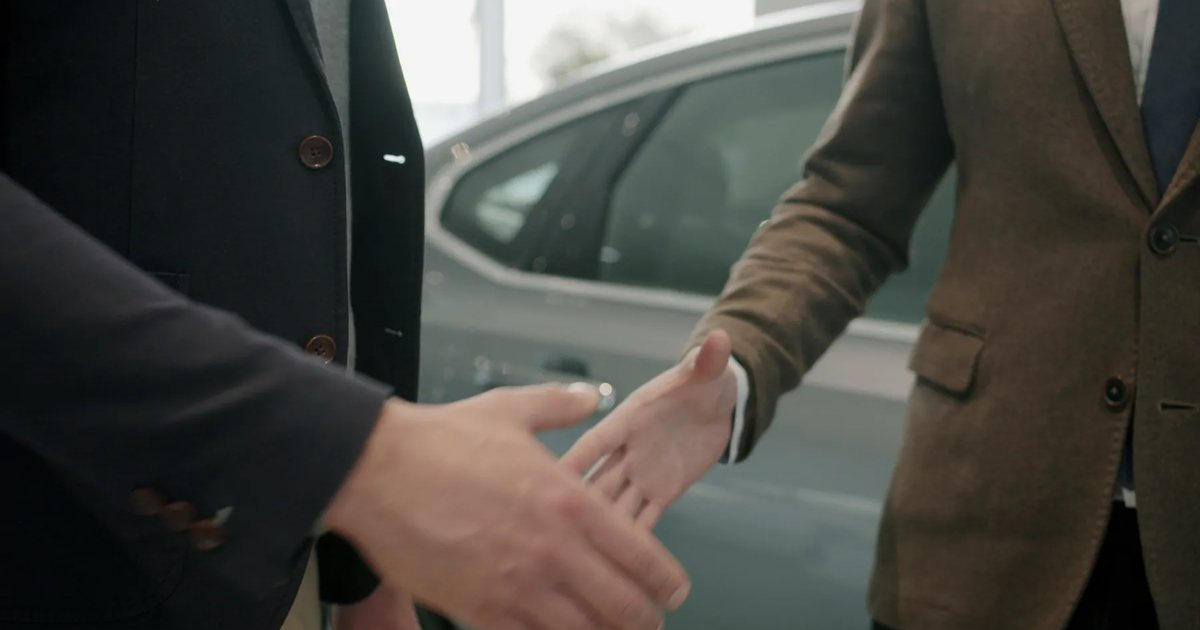
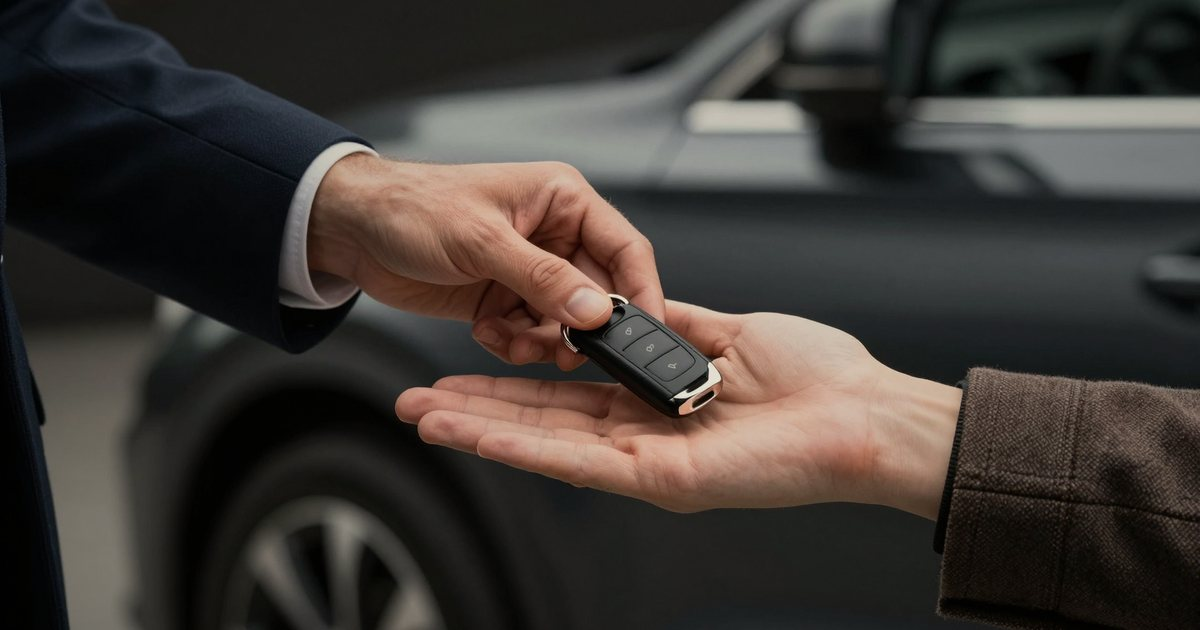
Onizleme: 720f6d9 surumu

diff --git a/blog/gaziantep-hizli-arac-satisi/index.html b/blog/gaziantep-hizli-arac-satisi/index.html
@@ -17,7 +17,7 @@
 <meta property="og:image" content="https://larisel.com/arac-onizleme/assets/img/blog/gaziantep-hizli-arac-satisi-mza-cars-og.jpg">
 <meta property="og:image:width" content="1200">
 <meta property="og:image:height" content="630">
-<meta property="og:image:alt" content="Gaziantep'te hızlı araç satışı: araç önünde anlaşmanın el sıkışması">
+<meta property="og:image:alt" content="Gaziantep'te hızlı araç satışı: satışın ardından araç anahtarının teslimi">
 <meta name="twitter:card" content="summary_large_image">
 <script type="application/ld+json">{"@context": "https://schema.org", "@type": "BlogPosting", "headline": "Gaziantep'te Aracımı Hızlı Nasıl Satarım? Güvenli Araç Satış Rehberi", "description": "Gaziantep’te aracınızı hızlı ve güvenli şekilde satın. MZA Cars ile ücretsiz ekspertiz, 48 saat geçerli ön teklif ve aynı gün ödeme imkânını keşfedin.", "image": "https://larisel.com/arac-onizleme/assets/img/blog/gaziantep-hizli-arac-satisi-mza-cars-og.jpg", "datePublished": "2026-11-23", "inLanguage": "tr-TR", "mainEntityOfPage": "https://larisel.com/arac-onizleme/blog/gaziantep-hizli-arac-satisi/", "author": {"@type": "Organization", "name": "MZA Cars"}, "publisher": {"@type": "Organization", "name": "MZA Cars"}}</script>
 <meta name="theme-color" content="#0b0c0e">
@@ -25,7 +25,7 @@
 <link rel="preconnect" href="https://fonts.googleapis.com">
 <link rel="preconnect" href="https://fonts.gstatic.com" crossorigin>
 <link rel="stylesheet" href="https://fonts.googleapis.com/css2?family=Archivo:wdth,wght@62..125,100..900&display=swap">
-<link rel="stylesheet" href="/arac-onizleme/assets/css/site.css?v=96f9b6b4">
+<link rel="stylesheet" href="/arac-onizleme/assets/css/site.css?v=5f0941cd">
 <script>document.documentElement.classList.add("js")</script>
 </head>
 <body data-page="blog/gaziantep-hizli-arac-satisi">
@@ -52,7 +52,7 @@
     <p class="post__meta"><time datetime="2026-11-23">23 Kasım 2026</time><i aria-hidden="true">·</i>5 dk okuma</p>
     <h1 class="post__title" id="post-title">Gaziantep'te Aracımı Hızlı Nasıl Satarım? Güvenli Araç Satış Rehberi</h1>
   </div>
-  <figure class="post__cover reveal"><img src="/arac-onizleme/assets/img/blog/gaziantep-hizli-arac-satisi-mza-cars-1200.webp" srcset="/arac-onizleme/assets/img/blog/gaziantep-hizli-arac-satisi-mza-cars-720.webp 720w, /arac-onizleme/assets/img/blog/gaziantep-hizli-arac-satisi-mza-cars-1200.webp 1200w, /arac-onizleme/assets/img/blog/gaziantep-hizli-arac-satisi-mza-cars-1800.webp 1800w" sizes="(min-width: 1100px) 1000px, 100vw" alt="Gaziantep'te hızlı araç satışı: araç önünde anlaşmanın el sıkışması" fetchpriority="high" decoding="async" width="1800" height="1200"></figure>
+  <figure class="post__cover reveal"><img style="--fx:52%;--fy:56%;--z:1" src="/arac-onizleme/assets/img/blog/gaziantep-hizli-arac-satisi-mza-cars-1200.webp" srcset="/arac-onizleme/assets/img/blog/gaziantep-hizli-arac-satisi-mza-cars-720.webp 720w, /arac-onizleme/assets/img/blog/gaziantep-hizli-arac-satisi-mza-cars-1200.webp 1200w, /arac-onizleme/assets/img/blog/gaziantep-hizli-arac-satisi-mza-cars-1800.webp 1800w" sizes="(min-width: 1100px) 1000px, 100vw" alt="Gaziantep'te hızlı araç satışı: satışın ardından araç anahtarının teslimi" fetchpriority="high" decoding="async" width="1800" height="1200"></figure>
   <div class="post__body">
 <p class="post__lead">İkinci el araç satışı, doğru yöntemler tercih edilmediğinde zaman alıcı ve yorucu bir sürece dönüşebilir. İlan hazırlamak, potansiyel alıcılarla görüşmek, fiyat pazarlığı yapmak ve ekspertiz işlemlerini organize etmek araç sahipleri için önemli bir zaman kaybı oluşturabilir.</p>
 <p>Özellikle <strong>Gaziantep'te aracını hızlı satmak isteyenler</strong> için doğru fiyatlandırma, güvenilir bir alıcı ve sorunsuz bir satış süreci büyük önem taşır.</p>
@@ -133,7 +133,7 @@
   </div>
   <section class="post__more" aria-labelledby="more-title">
     <p class="label" id="more-title">Diğer yazılar</p>
-    <div class="blog__grid"><article class="post-card reveal"><a class="post-card__a" href="/arac-onizleme/blog/gaziantep-arac-degerleme/"><figure class="post-card__pic"><img src="/arac-onizleme/assets/img/blog/gaziantep-arac-degerleme-mza-cars-1200.webp" srcset="/arac-onizleme/assets/img/blog/gaziantep-arac-degerleme-mza-cars-720.webp 720w, /arac-onizleme/assets/img/blog/gaziantep-arac-degerleme-mza-cars-1200.webp 1200w, /arac-onizleme/assets/img/blog/gaziantep-arac-degerleme-mza-cars-1800.webp 1800w" sizes="(min-width: 1101px) 30vw, (min-width: 700px) 46vw, 90vw" alt="Gaziantep araç değerleme: aracın kilometre ve hız göstergesi" loading="lazy" decoding="async" width="1800" height="1200"></figure><p class="post-card__meta"><time datetime="2026-11-23">23 Kasım 2026</time><i aria-hidden="true">·</i>7 dk okuma</p><h2 class="post-card__t">Gaziantep'te İkinci El Aracım Ne Kadar Eder? Araç Değerleme Rehberi</h2><p class="post-card__x">Gaziantep’te aracınızın değeri ne kadar? İkinci el araç fiyatlarını etkileyen faktörleri öğrenin, MZA Cars ile aracınıza özel ücretsiz ön teklif alın.</p><span class="post-card__go">Devamını oku <svg class="arw" viewBox="0 0 20 20" aria-hidden="true"><path d="M4 10h11M11 5.5 15.5 10 11 14.5"/></svg></span></a></article><article class="post-card reveal"><a class="post-card__a" href="/arac-onizleme/blog/gaziantep-oto-ekspertiz/"><figure class="post-card__pic"><img style="--fx:56%;--fy:52%;--z:1.28" src="/arac-onizleme/assets/img/blog/gaziantep-oto-ekspertiz-mza-cars-1200.webp" srcset="/arac-onizleme/assets/img/blog/gaziantep-oto-ekspertiz-mza-cars-720.webp 720w, /arac-onizleme/assets/img/blog/gaziantep-oto-ekspertiz-mza-cars-1200.webp 1200w, /arac-onizleme/assets/img/blog/gaziantep-oto-ekspertiz-mza-cars-1800.webp 1800w" sizes="(min-width: 1101px) 30vw, (min-width: 700px) 46vw, 90vw" alt="Gaziantep oto ekspertiz: uzman, atölyede aracın motor bölmesini inceliyor" loading="lazy" decoding="async" width="1800" height="1200"></figure><p class="post-card__meta"><time datetime="2026-11-23">23 Kasım 2026</time><i aria-hidden="true">·</i>6 dk okuma</p><h2 class="post-card__t">Gaziantep'te Araç Satışı Öncesi Ekspertiz Neden Önemli?</h2><p class="post-card__x">Gaziantep’te araç satışı öncesi ekspertiz neden önemli? MZA Cars ile ücretsiz araç ekspertizi, doğru fiyatlandırma ve güvenli satış sürecini keşfedin.</p><span class="post-card__go">Devamını oku <svg class="arw" viewBox="0 0 20 20" aria-hidden="true"><path d="M4 10h11M11 5.5 15.5 10 11 14.5"/></svg></span></a></article></div>
+    <div class="blog__grid"><article class="post-card reveal"><a class="post-card__a" href="/arac-onizleme/blog/gaziantep-arac-degerleme/"><figure class="post-card__pic"><img style="--fx:41%;--fy:52%;--z:1.08" src="/arac-onizleme/assets/img/blog/gaziantep-arac-degerleme-mza-cars-1200.webp" srcset="/arac-onizleme/assets/img/blog/gaziantep-arac-degerleme-mza-cars-720.webp 720w, /arac-onizleme/assets/img/blog/gaziantep-arac-degerleme-mza-cars-1200.webp 1200w, /arac-onizleme/assets/img/blog/gaziantep-arac-degerleme-mza-cars-1800.webp 1800w" sizes="(min-width: 1101px) 30vw, (min-width: 700px) 46vw, 90vw" alt="Gaziantep araç değerleme: uzman, boya ölçüm cihazıyla aracın kaportasını ölçüyor" loading="lazy" decoding="async" width="1800" height="1200"></figure><p class="post-card__meta"><time datetime="2026-11-23">23 Kasım 2026</time><i aria-hidden="true">·</i>7 dk okuma</p><h2 class="post-card__t">Gaziantep'te İkinci El Aracım Ne Kadar Eder? Araç Değerleme Rehberi</h2><p class="post-card__x">Gaziantep’te aracınızın değeri ne kadar? İkinci el araç fiyatlarını etkileyen faktörleri öğrenin, MZA Cars ile aracınıza özel ücretsiz ön teklif alın.</p><span class="post-card__go">Devamını oku <svg class="arw" viewBox="0 0 20 20" aria-hidden="true"><path d="M4 10h11M11 5.5 15.5 10 11 14.5"/></svg></span></a></article><article class="post-card reveal"><a class="post-card__a" href="/arac-onizleme/blog/gaziantep-oto-ekspertiz/"><figure class="post-card__pic"><img style="--fx:56%;--fy:52%;--z:1.28" src="/arac-onizleme/assets/img/blog/gaziantep-oto-ekspertiz-mza-cars-1200.webp" srcset="/arac-onizleme/assets/img/blog/gaziantep-oto-ekspertiz-mza-cars-720.webp 720w, /arac-onizleme/assets/img/blog/gaziantep-oto-ekspertiz-mza-cars-1200.webp 1200w, /arac-onizleme/assets/img/blog/gaziantep-oto-ekspertiz-mza-cars-1800.webp 1800w" sizes="(min-width: 1101px) 30vw, (min-width: 700px) 46vw, 90vw" alt="Gaziantep oto ekspertiz: uzman, atölyede aracın motor bölmesini inceliyor" loading="lazy" decoding="async" width="1800" height="1200"></figure><p class="post-card__meta"><time datetime="2026-11-23">23 Kasım 2026</time><i aria-hidden="true">·</i>6 dk okuma</p><h2 class="post-card__t">Gaziantep'te Araç Satışı Öncesi Ekspertiz Neden Önemli?</h2><p class="post-card__x">Gaziantep’te araç satışı öncesi ekspertiz neden önemli? MZA Cars ile ücretsiz araç ekspertizi, doğru fiyatlandırma ve güvenli satış sürecini keşfedin.</p><span class="post-card__go">Devamını oku <svg class="arw" viewBox="0 0 20 20" aria-hidden="true"><path d="M4 10h11M11 5.5 15.5 10 11 14.5"/></svg></span></a></article></div>
   </section>
 </article>
 

diff --git a/blog/gaziantep-arac-degerleme/index.html b/blog/gaziantep-arac-degerleme/index.html
@@ -17,7 +17,7 @@
 <meta property="og:image" content="https://larisel.com/arac-onizleme/assets/img/blog/gaziantep-arac-degerleme-mza-cars-og.jpg">
 <meta property="og:image:width" content="1200">
 <meta property="og:image:height" content="630">
-<meta property="og:image:alt" content="Gaziantep araç değerleme: aracın kilometre ve hız göstergesi">
+<meta property="og:image:alt" content="Gaziantep araç değerleme: uzman, boya ölçüm cihazıyla aracın kaportasını ölçüyor">
 <meta name="twitter:card" content="summary_large_image">
 <script type="application/ld+json">{"@context": "https://schema.org", "@type": "BlogPosting", "headline": "Gaziantep'te İkinci El Aracım Ne Kadar Eder? Araç Değerleme Rehberi", "description": "Gaziantep’te aracınızın değeri ne kadar? İkinci el araç fiyatlarını etkileyen faktörleri öğrenin, MZA Cars ile aracınıza özel ücretsiz ön teklif alın.", "image": "https://larisel.com/arac-onizleme/assets/img/blog/gaziantep-arac-degerleme-mza-cars-og.jpg", "datePublished": "2026-11-23", "inLanguage": "tr-TR", "mainEntityOfPage": "https://larisel.com/arac-onizleme/blog/gaziantep-arac-degerleme/", "author": {"@type": "Organization", "name": "MZA Cars"}, "publisher": {"@type": "Organization", "name": "MZA Cars"}}</script>
 <meta name="theme-color" content="#0b0c0e">
@@ -25,7 +25,7 @@
 <link rel="preconnect" href="https://fonts.googleapis.com">
 <link rel="preconnect" href="https://fonts.gstatic.com" crossorigin>
 <link rel="stylesheet" href="https://fonts.googleapis.com/css2?family=Archivo:wdth,wght@62..125,100..900&display=swap">
-<link rel="stylesheet" href="/arac-onizleme/assets/css/site.css?v=96f9b6b4">
+<link rel="stylesheet" href="/arac-onizleme/assets/css/site.css?v=5f0941cd">
 <script>document.documentElement.classList.add("js")</script>
 </head>
 <body data-page="blog/gaziantep-arac-degerleme">
@@ -52,7 +52,7 @@
     <p class="post__meta"><time datetime="2026-11-23">23 Kasım 2026</time><i aria-hidden="true">·</i>7 dk okuma</p>
     <h1 class="post__title" id="post-title">Gaziantep'te İkinci El Aracım Ne Kadar Eder? Araç Değerleme Rehberi</h1>
   </div>
-  <figure class="post__cover reveal"><img src="/arac-onizleme/assets/img/blog/gaziantep-arac-degerleme-mza-cars-1200.webp" srcset="/arac-onizleme/assets/img/blog/gaziantep-arac-degerleme-mza-cars-720.webp 720w, /arac-onizleme/assets/img/blog/gaziantep-arac-degerleme-mza-cars-1200.webp 1200w, /arac-onizleme/assets/img/blog/gaziantep-arac-degerleme-mza-cars-1800.webp 1800w" sizes="(min-width: 1100px) 1000px, 100vw" alt="Gaziantep araç değerleme: aracın kilometre ve hız göstergesi" fetchpriority="high" decoding="async" width="1800" height="1200"></figure>
+  <figure class="post__cover reveal"><img style="--fx:41%;--fy:52%;--z:1.08" src="/arac-onizleme/assets/img/blog/gaziantep-arac-degerleme-mza-cars-1200.webp" srcset="/arac-onizleme/assets/img/blog/gaziantep-arac-degerleme-mza-cars-720.webp 720w, /arac-onizleme/assets/img/blog/gaziantep-arac-degerleme-mza-cars-1200.webp 1200w, /arac-onizleme/assets/img/blog/gaziantep-arac-degerleme-mza-cars-1800.webp 1800w" sizes="(min-width: 1100px) 1000px, 100vw" alt="Gaziantep araç değerleme: uzman, boya ölçüm cihazıyla aracın kaportasını ölçüyor" fetchpriority="high" decoding="async" width="1800" height="1200"></figure>
   <div class="post__body">
 <p class="post__lead">İkinci el aracını satmayı düşünen herkesin aklına ilk gelen sorulardan biri, <strong>“Aracım ne kadar eder?”</strong> sorusudur. Ancak bir otomobilin gerçek piyasa değerini belirlemek, yalnızca marka, model veya kilometre bilgilerine bakmakla mümkün değildir.</p>
 <p>Aracın üretim yılı, hasar geçmişi, boyalı ve değişen parçaları, bakım durumu ve güncel piyasa koşulları satış fiyatını doğrudan etkileyen unsurlar arasındadır.</p>
@@ -160,7 +160,7 @@
   </div>
   <section class="post__more" aria-labelledby="more-title">
     <p class="label" id="more-title">Diğer yazılar</p>
-    <div class="blog__grid"><article class="post-card reveal"><a class="post-card__a" href="/arac-onizleme/blog/gaziantep-oto-ekspertiz/"><figure class="post-card__pic"><img style="--fx:56%;--fy:52%;--z:1.28" src="/arac-onizleme/assets/img/blog/gaziantep-oto-ekspertiz-mza-cars-1200.webp" srcset="/arac-onizleme/assets/img/blog/gaziantep-oto-ekspertiz-mza-cars-720.webp 720w, /arac-onizleme/assets/img/blog/gaziantep-oto-ekspertiz-mza-cars-1200.webp 1200w, /arac-onizleme/assets/img/blog/gaziantep-oto-ekspertiz-mza-cars-1800.webp 1800w" sizes="(min-width: 1101px) 30vw, (min-width: 700px) 46vw, 90vw" alt="Gaziantep oto ekspertiz: uzman, atölyede aracın motor bölmesini inceliyor" loading="lazy" decoding="async" width="1800" height="1200"></figure><p class="post-card__meta"><time datetime="2026-11-23">23 Kasım 2026</time><i aria-hidden="true">·</i>6 dk okuma</p><h2 class="post-card__t">Gaziantep'te Araç Satışı Öncesi Ekspertiz Neden Önemli?</h2><p class="post-card__x">Gaziantep’te araç satışı öncesi ekspertiz neden önemli? MZA Cars ile ücretsiz araç ekspertizi, doğru fiyatlandırma ve güvenli satış sürecini keşfedin.</p><span class="post-card__go">Devamını oku <svg class="arw" viewBox="0 0 20 20" aria-hidden="true"><path d="M4 10h11M11 5.5 15.5 10 11 14.5"/></svg></span></a></article><article class="post-card reveal"><a class="post-card__a" href="/arac-onizleme/blog/gaziantep-hizli-arac-satisi/"><figure class="post-card__pic"><img src="/arac-onizleme/assets/img/blog/gaziantep-hizli-arac-satisi-mza-cars-1200.webp" srcset="/arac-onizleme/assets/img/blog/gaziantep-hizli-arac-satisi-mza-cars-720.webp 720w, /arac-onizleme/assets/img/blog/gaziantep-hizli-arac-satisi-mza-cars-1200.webp 1200w, /arac-onizleme/assets/img/blog/gaziantep-hizli-arac-satisi-mza-cars-1800.webp 1800w" sizes="(min-width: 1101px) 30vw, (min-width: 700px) 46vw, 90vw" alt="Gaziantep'te hızlı araç satışı: araç önünde anlaşmanın el sıkışması" loading="lazy" decoding="async" width="1800" height="1200"></figure><p class="post-card__meta"><time datetime="2026-11-23">23 Kasım 2026</time><i aria-hidden="true">·</i>5 dk okuma</p><h2 class="post-card__t">Gaziantep'te Aracımı Hızlı Nasıl Satarım? Güvenli Araç Satış Rehberi</h2><p class="post-card__x">Gaziantep’te aracınızı hızlı ve güvenli şekilde satın. MZA Cars ile ücretsiz ekspertiz, 48 saat geçerli ön teklif ve aynı gün ödeme imkânını keşfedin.</p><span class="post-card__go">Devamını oku <svg class="arw" viewBox="0 0 20 20" aria-hidden="true"><path d="M4 10h11M11 5.5 15.5 10 11 14.5"/></svg></span></a></article></div>
+    <div class="blog__grid"><article class="post-card reveal"><a class="post-card__a" href="/arac-onizleme/blog/gaziantep-oto-ekspertiz/"><figure class="post-card__pic"><img style="--fx:56%;--fy:52%;--z:1.28" src="/arac-onizleme/assets/img/blog/gaziantep-oto-ekspertiz-mza-cars-1200.webp" srcset="/arac-onizleme/assets/img/blog/gaziantep-oto-ekspertiz-mza-cars-720.webp 720w, /arac-onizleme/assets/img/blog/gaziantep-oto-ekspertiz-mza-cars-1200.webp 1200w, /arac-onizleme/assets/img/blog/gaziantep-oto-ekspertiz-mza-cars-1800.webp 1800w" sizes="(min-width: 1101px) 30vw, (min-width: 700px) 46vw, 90vw" alt="Gaziantep oto ekspertiz: uzman, atölyede aracın motor bölmesini inceliyor" loading="lazy" decoding="async" width="1800" height="1200"></figure><p class="post-card__meta"><time datetime="2026-11-23">23 Kasım 2026</time><i aria-hidden="true">·</i>6 dk okuma</p><h2 class="post-card__t">Gaziantep'te Araç Satışı Öncesi Ekspertiz Neden Önemli?</h2><p class="post-card__x">Gaziantep’te araç satışı öncesi ekspertiz neden önemli? MZA Cars ile ücretsiz araç ekspertizi, doğru fiyatlandırma ve güvenli satış sürecini keşfedin.</p><span class="post-card__go">Devamını oku <svg class="arw" viewBox="0 0 20 20" aria-hidden="true"><path d="M4 10h11M11 5.5 15.5 10 11 14.5"/></svg></span></a></article><article class="post-card reveal"><a class="post-card__a" href="/arac-onizleme/blog/gaziantep-hizli-arac-satisi/"><figure class="post-card__pic"><img style="--fx:52%;--fy:56%;--z:1" src="/arac-onizleme/assets/img/blog/gaziantep-hizli-arac-satisi-mza-cars-1200.webp" srcset="/arac-onizleme/assets/img/blog/gaziantep-hizli-arac-satisi-mza-cars-720.webp 720w, /arac-onizleme/assets/img/blog/gaziantep-hizli-arac-satisi-mza-cars-1200.webp 1200w, /arac-onizleme/assets/img/blog/gaziantep-hizli-arac-satisi-mza-cars-1800.webp 1800w" sizes="(min-width: 1101px) 30vw, (min-width: 700px) 46vw, 90vw" alt="Gaziantep'te hızlı araç satışı: satışın ardından araç anahtarının teslimi" loading="lazy" decoding="async" width="1800" height="1200"></figure><p class="post-card__meta"><time datetime="2026-11-23">23 Kasım 2026</time><i aria-hidden="true">·</i>5 dk okuma</p><h2 class="post-card__t">Gaziantep'te Aracımı Hızlı Nasıl Satarım? Güvenli Araç Satış Rehberi</h2><p class="post-card__x">Gaziantep’te aracınızı hızlı ve güvenli şekilde satın. MZA Cars ile ücretsiz ekspertiz, 48 saat geçerli ön teklif ve aynı gün ödeme imkânını keşfedin.</p><span class="post-card__go">Devamını oku <svg class="arw" viewBox="0 0 20 20" aria-hidden="true"><path d="M4 10h11M11 5.5 15.5 10 11 14.5"/></svg></span></a></article></div>
   </section>
 </article>
 

diff --git a/blog/index.html b/blog/index.html
@@ -23,7 +23,7 @@
 <link rel="preconnect" href="https://fonts.googleapis.com">
 <link rel="preconnect" href="https://fonts.gstatic.com" crossorigin>
 <link rel="stylesheet" href="https://fonts.googleapis.com/css2?family=Archivo:wdth,wght@62..125,100..900&display=swap">
-<link rel="stylesheet" href="/arac-onizleme/assets/css/site.css?v=96f9b6b4">
+<link rel="stylesheet" href="/arac-onizleme/assets/css/site.css?v=5f0941cd">
 <script>document.documentElement.classList.add("js")</script>
 </head>
 <body data-page="blog">
@@ -50,7 +50,7 @@
     <h1 class="sec__title" id="blog-title">MZA <em>Blog</em></h1>
   </div>
   <div class="blog__grid">
-    <article class="post-card reveal"><a class="post-card__a" href="/arac-onizleme/blog/gaziantep-arac-degerleme/"><figure class="post-card__pic"><img src="/arac-onizleme/assets/img/blog/gaziantep-arac-degerleme-mza-cars-1200.webp" srcset="/arac-onizleme/assets/img/blog/gaziantep-arac-degerleme-mza-cars-720.webp 720w, /arac-onizleme/assets/img/blog/gaziantep-arac-degerleme-mza-cars-1200.webp 1200w, /arac-onizleme/assets/img/blog/gaziantep-arac-degerleme-mza-cars-1800.webp 1800w" sizes="(min-width: 1101px) 30vw, (min-width: 700px) 46vw, 90vw" alt="Gaziantep araç değerleme: aracın kilometre ve hız göstergesi" loading="lazy" decoding="async" width="1800" height="1200"></figure><p class="post-card__meta"><time datetime="2026-11-23">23 Kasım 2026</time><i aria-hidden="true">·</i>7 dk okuma</p><h2 class="post-card__t">Gaziantep'te İkinci El Aracım Ne Kadar Eder? Araç Değerleme Rehberi</h2><p class="post-card__x">Gaziantep’te aracınızın değeri ne kadar? İkinci el araç fiyatlarını etkileyen faktörleri öğrenin, MZA Cars ile aracınıza özel ücretsiz ön teklif alın.</p><span class="post-card__go">Devamını oku <svg class="arw" viewBox="0 0 20 20" aria-hidden="true"><path d="M4 10h11M11 5.5 15.5 10 11 14.5"/></svg></span></a></article><article class="post-card reveal"><a class="post-card__a" href="/arac-onizleme/blog/gaziantep-oto-ekspertiz/"><figure class="post-card__pic"><img style="--fx:56%;--fy:52%;--z:1.28" src="/arac-onizleme/assets/img/blog/gaziantep-oto-ekspertiz-mza-cars-1200.webp" srcset="/arac-onizleme/assets/img/blog/gaziantep-oto-ekspertiz-mza-cars-720.webp 720w, /arac-onizleme/assets/img/blog/gaziantep-oto-ekspertiz-mza-cars-1200.webp 1200w, /arac-onizleme/assets/img/blog/gaziantep-oto-ekspertiz-mza-cars-1800.webp 1800w" sizes="(min-width: 1101px) 30vw, (min-width: 700px) 46vw, 90vw" alt="Gaziantep oto ekspertiz: uzman, atölyede aracın motor bölmesini inceliyor" loading="lazy" decoding="async" width="1800" height="1200"></figure><p class="post-card__meta"><time datetime="2026-11-23">23 Kasım 2026</time><i aria-hidden="true">·</i>6 dk okuma</p><h2 class="post-card__t">Gaziantep'te Araç Satışı Öncesi Ekspertiz Neden Önemli?</h2><p class="post-card__x">Gaziantep’te araç satışı öncesi ekspertiz neden önemli? MZA Cars ile ücretsiz araç ekspertizi, doğru fiyatlandırma ve güvenli satış sürecini keşfedin.</p><span class="post-card__go">Devamını oku <svg class="arw" viewBox="0 0 20 20" aria-hidden="true"><path d="M4 10h11M11 5.5 15.5 10 11 14.5"/></svg></span></a></article><article class="post-card reveal"><a class="post-card__a" href="/arac-onizleme/blog/gaziantep-hizli-arac-satisi/"><figure class="post-card__pic"><img src="/arac-onizleme/assets/img/blog/gaziantep-hizli-arac-satisi-mza-cars-1200.webp" srcset="/arac-onizleme/assets/img/blog/gaziantep-hizli-arac-satisi-mza-cars-720.webp 720w, /arac-onizleme/assets/img/blog/gaziantep-hizli-arac-satisi-mza-cars-1200.webp 1200w, /arac-onizleme/assets/img/blog/gaziantep-hizli-arac-satisi-mza-cars-1800.webp 1800w" sizes="(min-width: 1101px) 30vw, (min-width: 700px) 46vw, 90vw" alt="Gaziantep'te hızlı araç satışı: araç önünde anlaşmanın el sıkışması" loading="lazy" decoding="async" width="1800" height="1200"></figure><p class="post-card__meta"><time datetime="2026-11-23">23 Kasım 2026</time><i aria-hidden="true">·</i>5 dk okuma</p><h2 class="post-card__t">Gaziantep'te Aracımı Hızlı Nasıl Satarım? Güvenli Araç Satış Rehberi</h2><p class="post-card__x">Gaziantep’te aracınızı hızlı ve güvenli şekilde satın. MZA Cars ile ücretsiz ekspertiz, 48 saat geçerli ön teklif ve aynı gün ödeme imkânını keşfedin.</p><span class="post-card__go">Devamını oku <svg class="arw" viewBox="0 0 20 20" aria-hidden="true"><path d="M4 10h11M11 5.5 15.5 10 11 14.5"/></svg></span></a></article>
+    <article class="post-card reveal"><a class="post-card__a" href="/arac-onizleme/blog/gaziantep-arac-degerleme/"><figure class="post-card__pic"><img style="--fx:41%;--fy:52%;--z:1.08" src="/arac-onizleme/assets/img/blog/gaziantep-arac-degerleme-mza-cars-1200.webp" srcset="/arac-onizleme/assets/img/blog/gaziantep-arac-degerleme-mza-cars-720.webp 720w, /arac-onizleme/assets/img/blog/gaziantep-arac-degerleme-mza-cars-1200.webp 1200w, /arac-onizleme/assets/img/blog/gaziantep-arac-degerleme-mza-cars-1800.webp 1800w" sizes="(min-width: 1101px) 30vw, (min-width: 700px) 46vw, 90vw" alt="Gaziantep araç değerleme: uzman, boya ölçüm cihazıyla aracın kaportasını ölçüyor" loading="lazy" decoding="async" width="1800" height="1200"></figure><p class="post-card__meta"><time datetime="2026-11-23">23 Kasım 2026</time><i aria-hidden="true">·</i>7 dk okuma</p><h2 class="post-card__t">Gaziantep'te İkinci El Aracım Ne Kadar Eder? Araç Değerleme Rehberi</h2><p class="post-card__x">Gaziantep’te aracınızın değeri ne kadar? İkinci el araç fiyatlarını etkileyen faktörleri öğrenin, MZA Cars ile aracınıza özel ücretsiz ön teklif alın.</p><span class="post-card__go">Devamını oku <svg class="arw" viewBox="0 0 20 20" aria-hidden="true"><path d="M4 10h11M11 5.5 15.5 10 11 14.5"/></svg></span></a></article><article class="post-card reveal"><a class="post-card__a" href="/arac-onizleme/blog/gaziantep-oto-ekspertiz/"><figure class="post-card__pic"><img style="--fx:56%;--fy:52%;--z:1.28" src="/arac-onizleme/assets/img/blog/gaziantep-oto-ekspertiz-mza-cars-1200.webp" srcset="/arac-onizleme/assets/img/blog/gaziantep-oto-ekspertiz-mza-cars-720.webp 720w, /arac-onizleme/assets/img/blog/gaziantep-oto-ekspertiz-mza-cars-1200.webp 1200w, /arac-onizleme/assets/img/blog/gaziantep-oto-ekspertiz-mza-cars-1800.webp 1800w" sizes="(min-width: 1101px) 30vw, (min-width: 700px) 46vw, 90vw" alt="Gaziantep oto ekspertiz: uzman, atölyede aracın motor bölmesini inceliyor" loading="lazy" decoding="async" width="1800" height="1200"></figure><p class="post-card__meta"><time datetime="2026-11-23">23 Kasım 2026</time><i aria-hidden="true">·</i>6 dk okuma</p><h2 class="post-card__t">Gaziantep'te Araç Satışı Öncesi Ekspertiz Neden Önemli?</h2><p class="post-card__x">Gaziantep’te araç satışı öncesi ekspertiz neden önemli? MZA Cars ile ücretsiz araç ekspertizi, doğru fiyatlandırma ve güvenli satış sürecini keşfedin.</p><span class="post-card__go">Devamını oku <svg class="arw" viewBox="0 0 20 20" aria-hidden="true"><path d="M4 10h11M11 5.5 15.5 10 11 14.5"/></svg></span></a></article><article class="post-card reveal"><a class="post-card__a" href="/arac-onizleme/blog/gaziantep-hizli-arac-satisi/"><figure class="post-card__pic"><img style="--fx:52%;--fy:56%;--z:1" src="/arac-onizleme/assets/img/blog/gaziantep-hizli-arac-satisi-mza-cars-1200.webp" srcset="/arac-onizleme/assets/img/blog/gaziantep-hizli-arac-satisi-mza-cars-720.webp 720w, /arac-onizleme/assets/img/blog/gaziantep-hizli-arac-satisi-mza-cars-1200.webp 1200w, /arac-onizleme/assets/img/blog/gaziantep-hizli-arac-satisi-mza-cars-1800.webp 1800w" sizes="(min-width: 1101px) 30vw, (min-width: 700px) 46vw, 90vw" alt="Gaziantep'te hızlı araç satışı: satışın ardından araç anahtarının teslimi" loading="lazy" decoding="async" width="1800" height="1200"></figure><p class="post-card__meta"><time datetime="2026-11-23">23 Kasım 2026</time><i aria-hidden="true">·</i>5 dk okuma</p><h2 class="post-card__t">Gaziantep'te Aracımı Hızlı Nasıl Satarım? Güvenli Araç Satış Rehberi</h2><p class="post-card__x">Gaziantep’te aracınızı hızlı ve güvenli şekilde satın. MZA Cars ile ücretsiz ekspertiz, 48 saat geçerli ön teklif ve aynı gün ödeme imkânını keşfedin.</p><span class="post-card__go">Devamını oku <svg class="arw" viewBox="0 0 20 20" aria-hidden="true"><path d="M4 10h11M11 5.5 15.5 10 11 14.5"/></svg></span></a></article>
   </div>
 </section>
 

diff --git a/blog/gaziantep-oto-ekspertiz/index.html b/blog/gaziantep-oto-ekspertiz/index.html
@@ -25,7 +25,7 @@
 <link rel="preconnect" href="https://fonts.googleapis.com">
 <link rel="preconnect" href="https://fonts.gstatic.com" crossorigin>
 <link rel="stylesheet" href="https://fonts.googleapis.com/css2?family=Archivo:wdth,wght@62..125,100..900&display=swap">
-<link rel="stylesheet" href="/arac-onizleme/assets/css/site.css?v=96f9b6b4">
+<link rel="stylesheet" href="/arac-onizleme/assets/css/site.css?v=5f0941cd">
 <script>document.documentElement.classList.add("js")</script>
 </head>
 <body data-page="blog/gaziantep-oto-ekspertiz">
@@ -142,7 +142,7 @@
   </div>
   <section class="post__more" aria-labelledby="more-title">
     <p class="label" id="more-title">Diğer yazılar</p>
-    <div class="blog__grid"><article class="post-card reveal"><a class="post-card__a" href="/arac-onizleme/blog/gaziantep-arac-degerleme/"><figure class="post-card__pic"><img src="/arac-onizleme/assets/img/blog/gaziantep-arac-degerleme-mza-cars-1200.webp" srcset="/arac-onizleme/assets/img/blog/gaziantep-arac-degerleme-mza-cars-720.webp 720w, /arac-onizleme/assets/img/blog/gaziantep-arac-degerleme-mza-cars-1200.webp 1200w, /arac-onizleme/assets/img/blog/gaziantep-arac-degerleme-mza-cars-1800.webp 1800w" sizes="(min-width: 1101px) 30vw, (min-width: 700px) 46vw, 90vw" alt="Gaziantep araç değerleme: aracın kilometre ve hız göstergesi" loading="lazy" decoding="async" width="1800" height="1200"></figure><p class="post-card__meta"><time datetime="2026-11-23">23 Kasım 2026</time><i aria-hidden="true">·</i>7 dk okuma</p><h2 class="post-card__t">Gaziantep'te İkinci El Aracım Ne Kadar Eder? Araç Değerleme Rehberi</h2><p class="post-card__x">Gaziantep’te aracınızın değeri ne kadar? İkinci el araç fiyatlarını etkileyen faktörleri öğrenin, MZA Cars ile aracınıza özel ücretsiz ön teklif alın.</p><span class="post-card__go">Devamını oku <svg class="arw" viewBox="0 0 20 20" aria-hidden="true"><path d="M4 10h11M11 5.5 15.5 10 11 14.5"/></svg></span></a></article><article class="post-card reveal"><a class="post-card__a" href="/arac-onizleme/blog/gaziantep-hizli-arac-satisi/"><figure class="post-card__pic"><img src="/arac-onizleme/assets/img/blog/gaziantep-hizli-arac-satisi-mza-cars-1200.webp" srcset="/arac-onizleme/assets/img/blog/gaziantep-hizli-arac-satisi-mza-cars-720.webp 720w, /arac-onizleme/assets/img/blog/gaziantep-hizli-arac-satisi-mza-cars-1200.webp 1200w, /arac-onizleme/assets/img/blog/gaziantep-hizli-arac-satisi-mza-cars-1800.webp 1800w" sizes="(min-width: 1101px) 30vw, (min-width: 700px) 46vw, 90vw" alt="Gaziantep'te hızlı araç satışı: araç önünde anlaşmanın el sıkışması" loading="lazy" decoding="async" width="1800" height="1200"></figure><p class="post-card__meta"><time datetime="2026-11-23">23 Kasım 2026</time><i aria-hidden="true">·</i>5 dk okuma</p><h2 class="post-card__t">Gaziantep'te Aracımı Hızlı Nasıl Satarım? Güvenli Araç Satış Rehberi</h2><p class="post-card__x">Gaziantep’te aracınızı hızlı ve güvenli şekilde satın. MZA Cars ile ücretsiz ekspertiz, 48 saat geçerli ön teklif ve aynı gün ödeme imkânını keşfedin.</p><span class="post-card__go">Devamını oku <svg class="arw" viewBox="0 0 20 20" aria-hidden="true"><path d="M4 10h11M11 5.5 15.5 10 11 14.5"/></svg></span></a></article></div>
+    <div class="blog__grid"><article class="post-card reveal"><a class="post-card__a" href="/arac-onizleme/blog/gaziantep-arac-degerleme/"><figure class="post-card__pic"><img style="--fx:41%;--fy:52%;--z:1.08" src="/arac-onizleme/assets/img/blog/gaziantep-arac-degerleme-mza-cars-1200.webp" srcset="/arac-onizleme/assets/img/blog/gaziantep-arac-degerleme-mza-cars-720.webp 720w, /arac-onizleme/assets/img/blog/gaziantep-arac-degerleme-mza-cars-1200.webp 1200w, /arac-onizleme/assets/img/blog/gaziantep-arac-degerleme-mza-cars-1800.webp 1800w" sizes="(min-width: 1101px) 30vw, (min-width: 700px) 46vw, 90vw" alt="Gaziantep araç değerleme: uzman, boya ölçüm cihazıyla aracın kaportasını ölçüyor" loading="lazy" decoding="async" width="1800" height="1200"></figure><p class="post-card__meta"><time datetime="2026-11-23">23 Kasım 2026</time><i aria-hidden="true">·</i>7 dk okuma</p><h2 class="post-card__t">Gaziantep'te İkinci El Aracım Ne Kadar Eder? Araç Değerleme Rehberi</h2><p class="post-card__x">Gaziantep’te aracınızın değeri ne kadar? İkinci el araç fiyatlarını etkileyen faktörleri öğrenin, MZA Cars ile aracınıza özel ücretsiz ön teklif alın.</p><span class="post-card__go">Devamını oku <svg class="arw" viewBox="0 0 20 20" aria-hidden="true"><path d="M4 10h11M11 5.5 15.5 10 11 14.5"/></svg></span></a></article><article class="post-card reveal"><a class="post-card__a" href="/arac-onizleme/blog/gaziantep-hizli-arac-satisi/"><figure class="post-card__pic"><img style="--fx:52%;--fy:56%;--z:1" src="/arac-onizleme/assets/img/blog/gaziantep-hizli-arac-satisi-mza-cars-1200.webp" srcset="/arac-onizleme/assets/img/blog/gaziantep-hizli-arac-satisi-mza-cars-720.webp 720w, /arac-onizleme/assets/img/blog/gaziantep-hizli-arac-satisi-mza-cars-1200.webp 1200w, /arac-onizleme/assets/img/blog/gaziantep-hizli-arac-satisi-mza-cars-1800.webp 1800w" sizes="(min-width: 1101px) 30vw, (min-width: 700px) 46vw, 90vw" alt="Gaziantep'te hızlı araç satışı: satışın ardından araç anahtarının teslimi" loading="lazy" decoding="async" width="1800" height="1200"></figure><p class="post-card__meta"><time datetime="2026-11-23">23 Kasım 2026</time><i aria-hidden="true">·</i>5 dk okuma</p><h2 class="post-card__t">Gaziantep'te Aracımı Hızlı Nasıl Satarım? Güvenli Araç Satış Rehberi</h2><p class="post-card__x">Gaziantep’te aracınızı hızlı ve güvenli şekilde satın. MZA Cars ile ücretsiz ekspertiz, 48 saat geçerli ön teklif ve aynı gün ödeme imkânını keşfedin.</p><span class="post-card__go">Devamını oku <svg class="arw" viewBox="0 0 20 20" aria-hidden="true"><path d="M4 10h11M11 5.5 15.5 10 11 14.5"/></svg></span></a></article></div>
   </section>
 </article>
 

diff --git a/assets/css/site.css b/assets/css/site.css
@@ -377,7 +377,7 @@ ul, ol { padding: 0; list-style: none; }
 /* ---- blog (client, 23.11: its own page, apart from the home page) ------------------- */
 .blog, .post { min-height: 100vh; min-height: 100svh; padding-top: calc(var(--hdr) + clamp(3rem, 2rem + 4vw, 6rem)); }
 .blog__grid { display: grid; grid-template-columns: repeat(3, minmax(0, 1fr)); gap: clamp(1.6rem, 2.6vw, 2.6rem); }
-.post-card__a { display: grid; gap: 0.75rem; align-content: start; }
+.post-card__a { display: grid; gap: 0.75rem; align-content: start; height: 100%; grid-template-rows: auto auto auto 1fr auto; }
 .post-card__pic { overflow: hidden; border-radius: 16px; background: var(--bg); }
 .post-card__pic img { width: 100%; aspect-ratio: 16 / 11; object-fit: cover; object-position: var(--fx, 50%) var(--fy, 50%); transform-origin: var(--fx, 50%) var(--fy, 50%); scale: var(--z, 1); transition: scale 1200ms var(--e-out); }   /* a post can frame its cover on its subject (build.py: focus, zoom) */
 .post-card__meta, .post__meta { display: flex; flex-wrap: wrap; gap: 0.5rem; margin-top: 0.5rem; font-size: 0.86rem; color: var(--ink-soft); }
@@ -404,7 +404,7 @@ ul, ol { padding: 0; list-style: none; }
   .blog > .blog__grid > .post-card:first-child:nth-last-child(odd) { grid-column: 1 / -1; }
   .blog > .blog__grid > .post-card:first-child:nth-last-child(odd) .post-card__pic img { aspect-ratio: 16 / 8; }
 }
-.post-card__go { display: inline-flex; align-items: center; gap: 0.45rem; margin-top: 0.2rem; font-weight: 600; font-size: 0.92rem; color: var(--gold-ink); }
+.post-card__go { display: inline-flex; align-items: center; justify-self: start; gap: 0.45rem; margin-top: 0.3rem; font-weight: 600; font-size: 0.92rem; color: var(--gold-ink); }
 @media (hover: hover) {
   .post-card__a:hover .post-card__pic img { scale: calc(var(--z, 1) * 1.04); }
   .post-card__a:hover .post-card__t { color: var(--gold-ink); }
@@ -588,6 +588,7 @@ html.has-sheet .sbar { opacity: 0; pointer-events: none; }
 .hp { position: absolute; left: -9999px; width: 1px; height: 1px; opacity: 0; }   /* left empty by people, filled by bots */
 .form__err { max-width: 30rem; margin-top: 1.4rem; font-size: 0.92rem; line-height: 1.6; color: var(--err); }
 .form__err span { display: block; }
+.form__err .form__alt { margin-top: 0.5rem; color: var(--text); }   /* red marks the problem only; the way out is calm */
 .form__err a { color: inherit; text-decoration: underline; text-underline-offset: 3px; white-space: nowrap; }
 .field { display: grid; gap: 0.55rem; }
 .field__l { font: 600 0.76rem/1 var(--f-mono); letter-spacing: 0.12em; text-transform: uppercase; color: var(--muted); }

diff --git a/assets/js/wizard.js b/assets/js/wizard.js
@@ -142,7 +142,7 @@ const RENDER = {
       <input class="hp" name="web" tabindex="-1" autocomplete="off" aria-hidden="true">
       <label class="check"><input type="checkbox" name="kvkk" ${car.kvkk ? "checked" : ""}><span><a href="../kvkk-aydinlatma-metni/" target="_blank" rel="noopener">Aydınlatma metnini</a> okudum; bilgilerimin ön teklif ve randevu için kullanılmasını kabul ediyorum.</span></label>
     </div>
-    <p class="form__err" data-err role="alert" hidden><span>Formunuz gönderilemedi. Bilgileriniz duruyor; lütfen tekrar deneyin.</span><span>Ya da WhatsApp'tan yazın: <a href="https://wa.me/905327078083" target="_blank" rel="noopener">+90 532 707 80 83</a></span></p>
+    <p class="form__err" data-err role="alert" hidden><span>Gönderimi doğrulayamadık. Bilgileriniz duruyor; lütfen tekrar deneyin.</span><span class="form__alt">Ya da WhatsApp'tan yazın: <a href="https://wa.me/905327078083" target="_blank" rel="noopener">+90 532 707 80 83</a></span></p>
     ${nav("kayit", false, "Teklif Al")}`,
   /* the application (client, 23.11): no price, the expert calls; the narrow card opens up as the whole form */
   basvuru: () => {

diff --git a/degerleme/index.html b/degerleme/index.html
@@ -23,7 +23,7 @@
 <link rel="preconnect" href="https://fonts.googleapis.com">
 <link rel="preconnect" href="https://fonts.gstatic.com" crossorigin>
 <link rel="stylesheet" href="https://fonts.googleapis.com/css2?family=Archivo:wdth,wght@62..125,100..900&display=swap">
-<link rel="stylesheet" href="/arac-onizleme/assets/css/site.css?v=96f9b6b4">
+<link rel="stylesheet" href="/arac-onizleme/assets/css/site.css?v=5f0941cd">
 <script>document.documentElement.classList.add("js")</script>
 </head>
 <body data-page="degerleme">
@@ -66,7 +66,7 @@
     </aside>
   </div>
 </section>
-<script type="module" src="/arac-onizleme/assets/js/wizard.js?v=2db4ced9"></script>
+<script type="module" src="/arac-onizleme/assets/js/wizard.js?v=45cdde15"></script>
 
 </main>
 

diff --git a/kvkk-aydinlatma-metni/index.html b/kvkk-aydinlatma-metni/index.html
@@ -23,7 +23,7 @@
 <link rel="preconnect" href="https://fonts.googleapis.com">
 <link rel="preconnect" href="https://fonts.gstatic.com" crossorigin>
 <link rel="stylesheet" href="https://fonts.googleapis.com/css2?family=Archivo:wdth,wght@62..125,100..900&display=swap">
-<link rel="stylesheet" href="/arac-onizleme/assets/css/site.css?v=96f9b6b4">
+<link rel="stylesheet" href="/arac-onizleme/assets/css/site.css?v=5f0941cd">
 <script>document.documentElement.classList.add("js")</script>
 </head>
 <body data-page="kvkk-aydinlatma-metni">

diff --git a/gizlilik-politikasi/index.html b/gizlilik-politikasi/index.html
@@ -23,7 +23,7 @@
 <link rel="preconnect" href="https://fonts.googleapis.com">
 <link rel="preconnect" href="https://fonts.gstatic.com" crossorigin>
 <link rel="stylesheet" href="https://fonts.googleapis.com/css2?family=Archivo:wdth,wght@62..125,100..900&display=swap">
-<link rel="stylesheet" href="/arac-onizleme/assets/css/site.css?v=96f9b6b4">
+<link rel="stylesheet" href="/arac-onizleme/assets/css/site.css?v=5f0941cd">
 <script>document.documentElement.classList.add("js")</script>
 </head>
 <body data-page="gizlilik-politikasi">

diff --git a/kullanim-kosullari/index.html b/kullanim-kosullari/index.html
@@ -23,7 +23,7 @@
 <link rel="preconnect" href="https://fonts.googleapis.com">
 <link rel="preconnect" href="https://fonts.gstatic.com" crossorigin>
 <link rel="stylesheet" href="https://fonts.googleapis.com/css2?family=Archivo:wdth,wght@62..125,100..900&display=swap">
-<link rel="stylesheet" href="/arac-onizleme/assets/css/site.css?v=96f9b6b4">
+<link rel="stylesheet" href="/arac-onizleme/assets/css/site.css?v=5f0941cd">
 <script>document.documentElement.classList.add("js")</script>
 </head>
 <body data-page="kullanim-kosullari">

diff --git a/index.html b/index.html
@@ -24,7 +24,7 @@
 <link rel="preconnect" href="https://fonts.googleapis.com">
 <link rel="preconnect" href="https://fonts.gstatic.com" crossorigin>
 <link rel="stylesheet" href="https://fonts.googleapis.com/css2?family=Archivo:wdth,wght@62..125,100..900&display=swap">
-<link rel="stylesheet" href="/arac-onizleme/assets/css/site.css?v=96f9b6b4">
+<link rel="stylesheet" href="/arac-onizleme/assets/css/site.css?v=5f0941cd">
 <script>document.documentElement.classList.add("js")</script>
 </head>
 <body data-page="index">

diff --git a/404.html b/404.html
@@ -14,7 +14,7 @@
 <link rel="preconnect" href="https://fonts.googleapis.com">
 <link rel="preconnect" href="https://fonts.gstatic.com" crossorigin>
 <link rel="stylesheet" href="https://fonts.googleapis.com/css2?family=Archivo:wdth,wght@62..125,100..900&display=swap">
-<link rel="stylesheet" href="/arac-onizleme/assets/css/site.css?v=96f9b6b4">
+<link rel="stylesheet" href="/arac-onizleme/assets/css/site.css?v=5f0941cd">
 <script>document.documentElement.classList.add("js")</script>
 </head>
 <body data-page="404">
